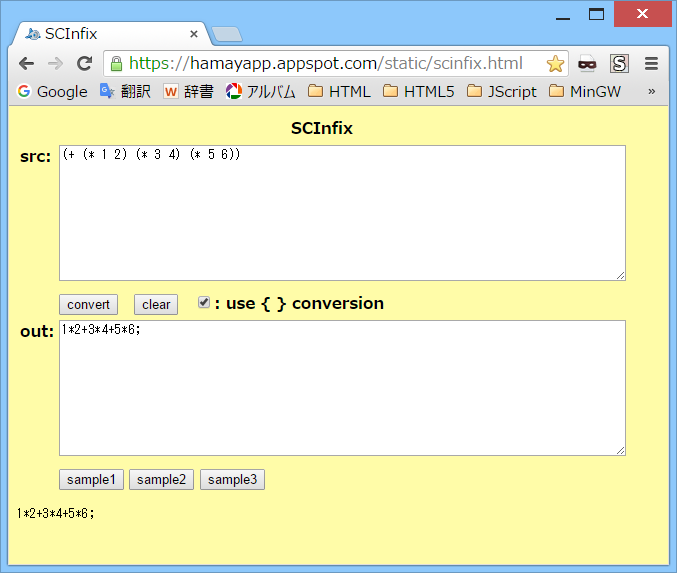
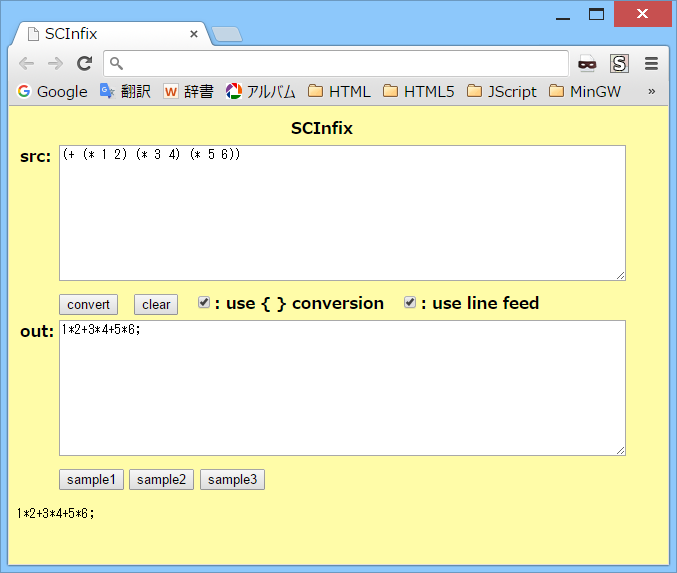
src chg v1.04

diff --git a/scinfix.html b/scinfix.html
@@ -5,7 +5,7 @@
 <title>SCInfix</title>
 <!--
     scinfix.html
-    2015-10-30 v1.03
+    2015-10-30 v1.04
 -->
 <style type="text/css">
 <!--
@@ -40,6 +40,7 @@ function convert_button() {
     var ret;
     var src_st;
     var curly_conv;
+    var line_feed;
     var result = {};
 
     // ***** 戻り値の初期化 *****
@@ -49,13 +50,15 @@ function convert_button() {
     // ***** 要素の存在チェック *****
     if (!document.getElementById("src_text1"))    { Alm("convert_button:0001"); return ret; }
     if (!document.getElementById("curly_conv"))   { Alm("convert_button:0002"); return ret; }
-    if (!document.getElementById("out_text1"))    { Alm("convert_button:0003"); return ret; }
-    if (!document.getElementById("result_show1")) { Alm("convert_button:0004"); return ret; }
+    if (!document.getElementById("line_feed"))    { Alm("convert_button:0003"); return ret; }
+    if (!document.getElementById("out_text1"))    { Alm("convert_button:0004"); return ret; }
+    if (!document.getElementById("result_show1")) { Alm("convert_button:0005"); return ret; }
     // ***** ソースの取得 *****
     src_st = document.getElementById("src_text1").value;
     curly_conv = document.getElementById("curly_conv").checked;
+    line_feed = document.getElementById("line_feed").checked;
     // ***** 変換実行 *****
-    result = SCInfix.convert(src_st, curly_conv);
+    result = SCInfix.convert(src_st, curly_conv, line_feed);
     // ***** 出力の表示 *****
     document.getElementById("out_text1").value = result.out;
     document.getElementById("result_show1").innerHTML = result.html;
@@ -135,9 +138,10 @@ function sample_button(sample_no) {
 //
 // 公開I/F :
 //
-//   SCInfix.convert(src_st, curly_conv)  変換実行
+//   SCInfix.convert(src_st, curly_conv, line_feed)  変換実行
 //     src_st      ソース(文字列)
 //     curly_conv  波括弧変換フラグ(boolean)
+//     line_feed   改行反映フラグ(boolean)
 //     戻り値      結果オブジェクト
 //                   result.out   テキスト出力(文字列)
 //                   result.html  HTML出力(文字列)
@@ -189,6 +193,7 @@ var SCInfix;
     // ***** 変数 *****
     var src_st;              // ソース(文字列)
     var curly_conv;          // 波括弧変換フラグ(boolean)
+    var line_feed;           // 改行反映フラグ(boolean)
     var out_st;              // テキスト出力(文字列)
     var html_st;             // HTML出力(文字列)
     var operator_table = {}; // 演算子情報(連想配列オブジェクト)
@@ -196,7 +201,7 @@ var SCInfix;
                              //   operator_table[funcname].param_num  引数の数(負の数は特殊)
                              //   operator_table[funcname].priority   優先順位(大きいほど優先)
     var token = [];          // トークン(配列)
-                             //   token[i].kind     種別(=0:改行(未使用),
+                             //   token[i].kind     種別(=0:改行,
                              //                          =1:開き括弧,
                              //                          =2:閉じ括弧,
                              //                          =3:クォート等の要素の前につく記号,
@@ -217,7 +222,7 @@ var SCInfix;
     // ***** 公開I/F *****
 
     // ***** 変換実行 *****
-    function convert(src_st1, curly_conv1) {
+    function convert(src_st1, curly_conv1, line_feed1) {
         var result = {}; // 戻り値
 
         // ***** 戻り値の初期化 *****
@@ -231,6 +236,8 @@ var SCInfix;
         src_st = src_st1;
         // ***** 波括弧変換フラグの取得 *****
         curly_conv = curly_conv1;
+        // ***** 改行反映フラグの取得 *****
+        line_feed = line_feed1;
         // ***** 演算子情報の生成 *****
         make_optable();
         // ***** トークン分割 *****
@@ -344,14 +351,20 @@ var SCInfix;
     }
     // ***** プログラムのコンパイル *****
     function c_prog(tok_start, tok_end) {
-        var i;
+        var i, i2, i2_old;
         // ***** トークン解析のループ *****
         i = tok_start;
         while (i < tok_end) {
             // ***** S式のコンパイル *****
+            i2_old = code.length;
             i = c_sexpr(i, tok_end, false, 0);
-            code_push(";", debugpos1, i);
-            code_push("\n", debugpos1, i);
+            i2 = code.length;
+            if (i2 > i2_old && !(i2 > 0 && code[i2 - 1].word == "\n")) {
+                code_push(";", debugpos1, i);
+                if (!line_feed) {
+                    code_push("\n", debugpos1, i);
+                }
+            }
         }
     }
     // ***** S式のコンパイル *****
@@ -370,6 +383,15 @@ var SCInfix;
         // ***** 終端のとき *****
         if (tok.word == ";end") {
             i++;
+            return i;
+        }
+
+        // ***** 改行のとき *****
+        if (tok.kind == 0) {
+            i++;
+            if (line_feed) {
+                code_push("\n", debugpos1, i);
+            }
             return i;
         }
 
@@ -638,7 +660,7 @@ var SCInfix;
             if (ch == "\r" || ch == "\n") {
                 line_no++;
                 if (ch == "\r" && ch2 == "\n") { i++; }
-                // token_push(0);
+                token_push(0);
                 continue;
             }
             // ***** 波括弧「{ ～ }」のとき *****
@@ -779,7 +801,12 @@ var SCInfix;
                         if (comment_nest <= 0) { break; }
                     }
                     // ***** 改行のとき *****
-                    if (ch == "\r" || ch == "\n") { line_no++; if (ch == "\r" && ch2 == "\n") { i++; } }
+                    // if (ch == "\r" || ch == "\n") { line_no++; if (ch == "\r" && ch2 == "\n") { i++; } }
+                    if (ch == "\r" || ch == "\n") {
+                        line_no++;
+                        if (ch == "\r" && ch2 == "\n") { i++; }
+                        token_push(0, "\n");
+                    }
                 }
                 // token_push(52);
                 continue;
@@ -972,7 +999,8 @@ var SCInfix;
 <th></th>
 <th align="left"><input type="submit" value="convert"> &nbsp;
 <input type="button" value="clear" onclick="clear_button();"> &nbsp;
-<input type="checkbox" id="curly_conv" checked>: use { } conversion</th>
+<input type="checkbox" id="curly_conv" checked>: use { } conversion &nbsp;
+<input type="checkbox" id="line_feed" checked>: use line feed</th>
 <th></th>
 </tr><tr>
 <th align="left" valign="top">out:</th>

diff --git a/README.md b/README.md
@@ -21,6 +21,9 @@
 - また、「use { } conversion」のチェックボックスにチェックを入れると、  
   波括弧 { } 内の文字列は変換をしなくなります。
 
+- また、「use line feed」のチェックボックスにチェックを入れると、  
+  入力の改行を 結果に反映します。
+
 - clearボタンをクリックすると、入出力をすべてクリアします。
 
 - sample1-3ボタンをクリックすると、変換の例を表示します。
@@ -70,6 +73,7 @@
 - 2015-10-30 v1.01 一部処理見直し(不要行削除等)
 - 2015-10-30 v1.02 書式修正のみ
 - 2015-10-30 v1.03 quote対応。エラー処理追加
+- 2015-10-30 v1.04 改行反映フラグを追加
 
 
 (2015-10-30)
